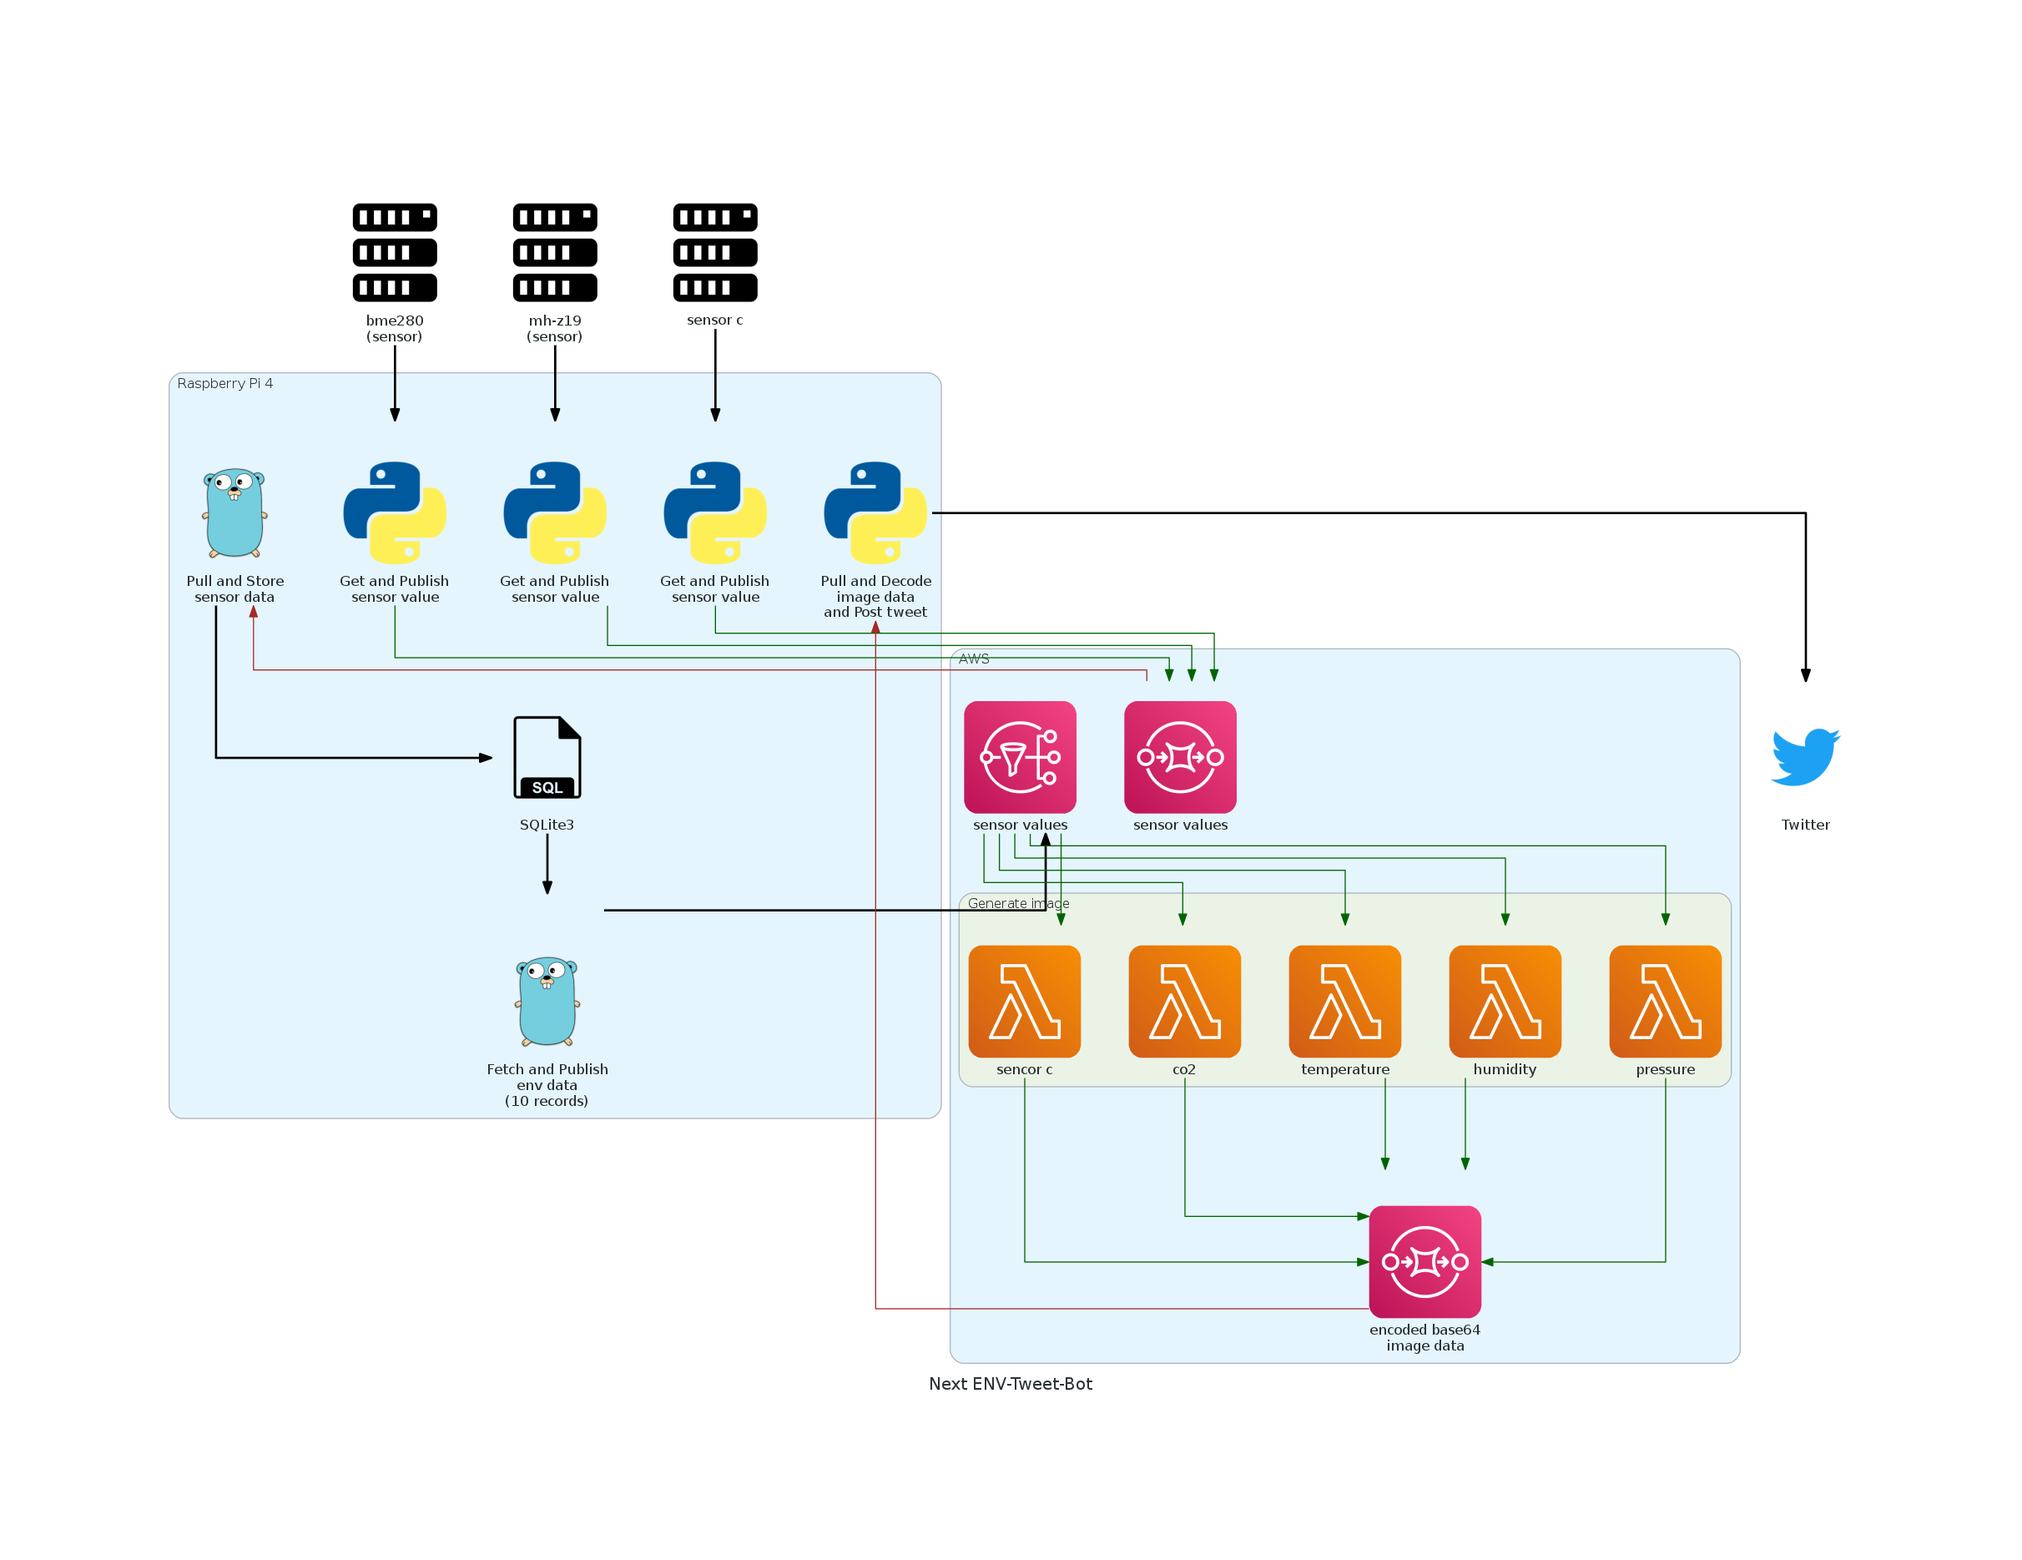
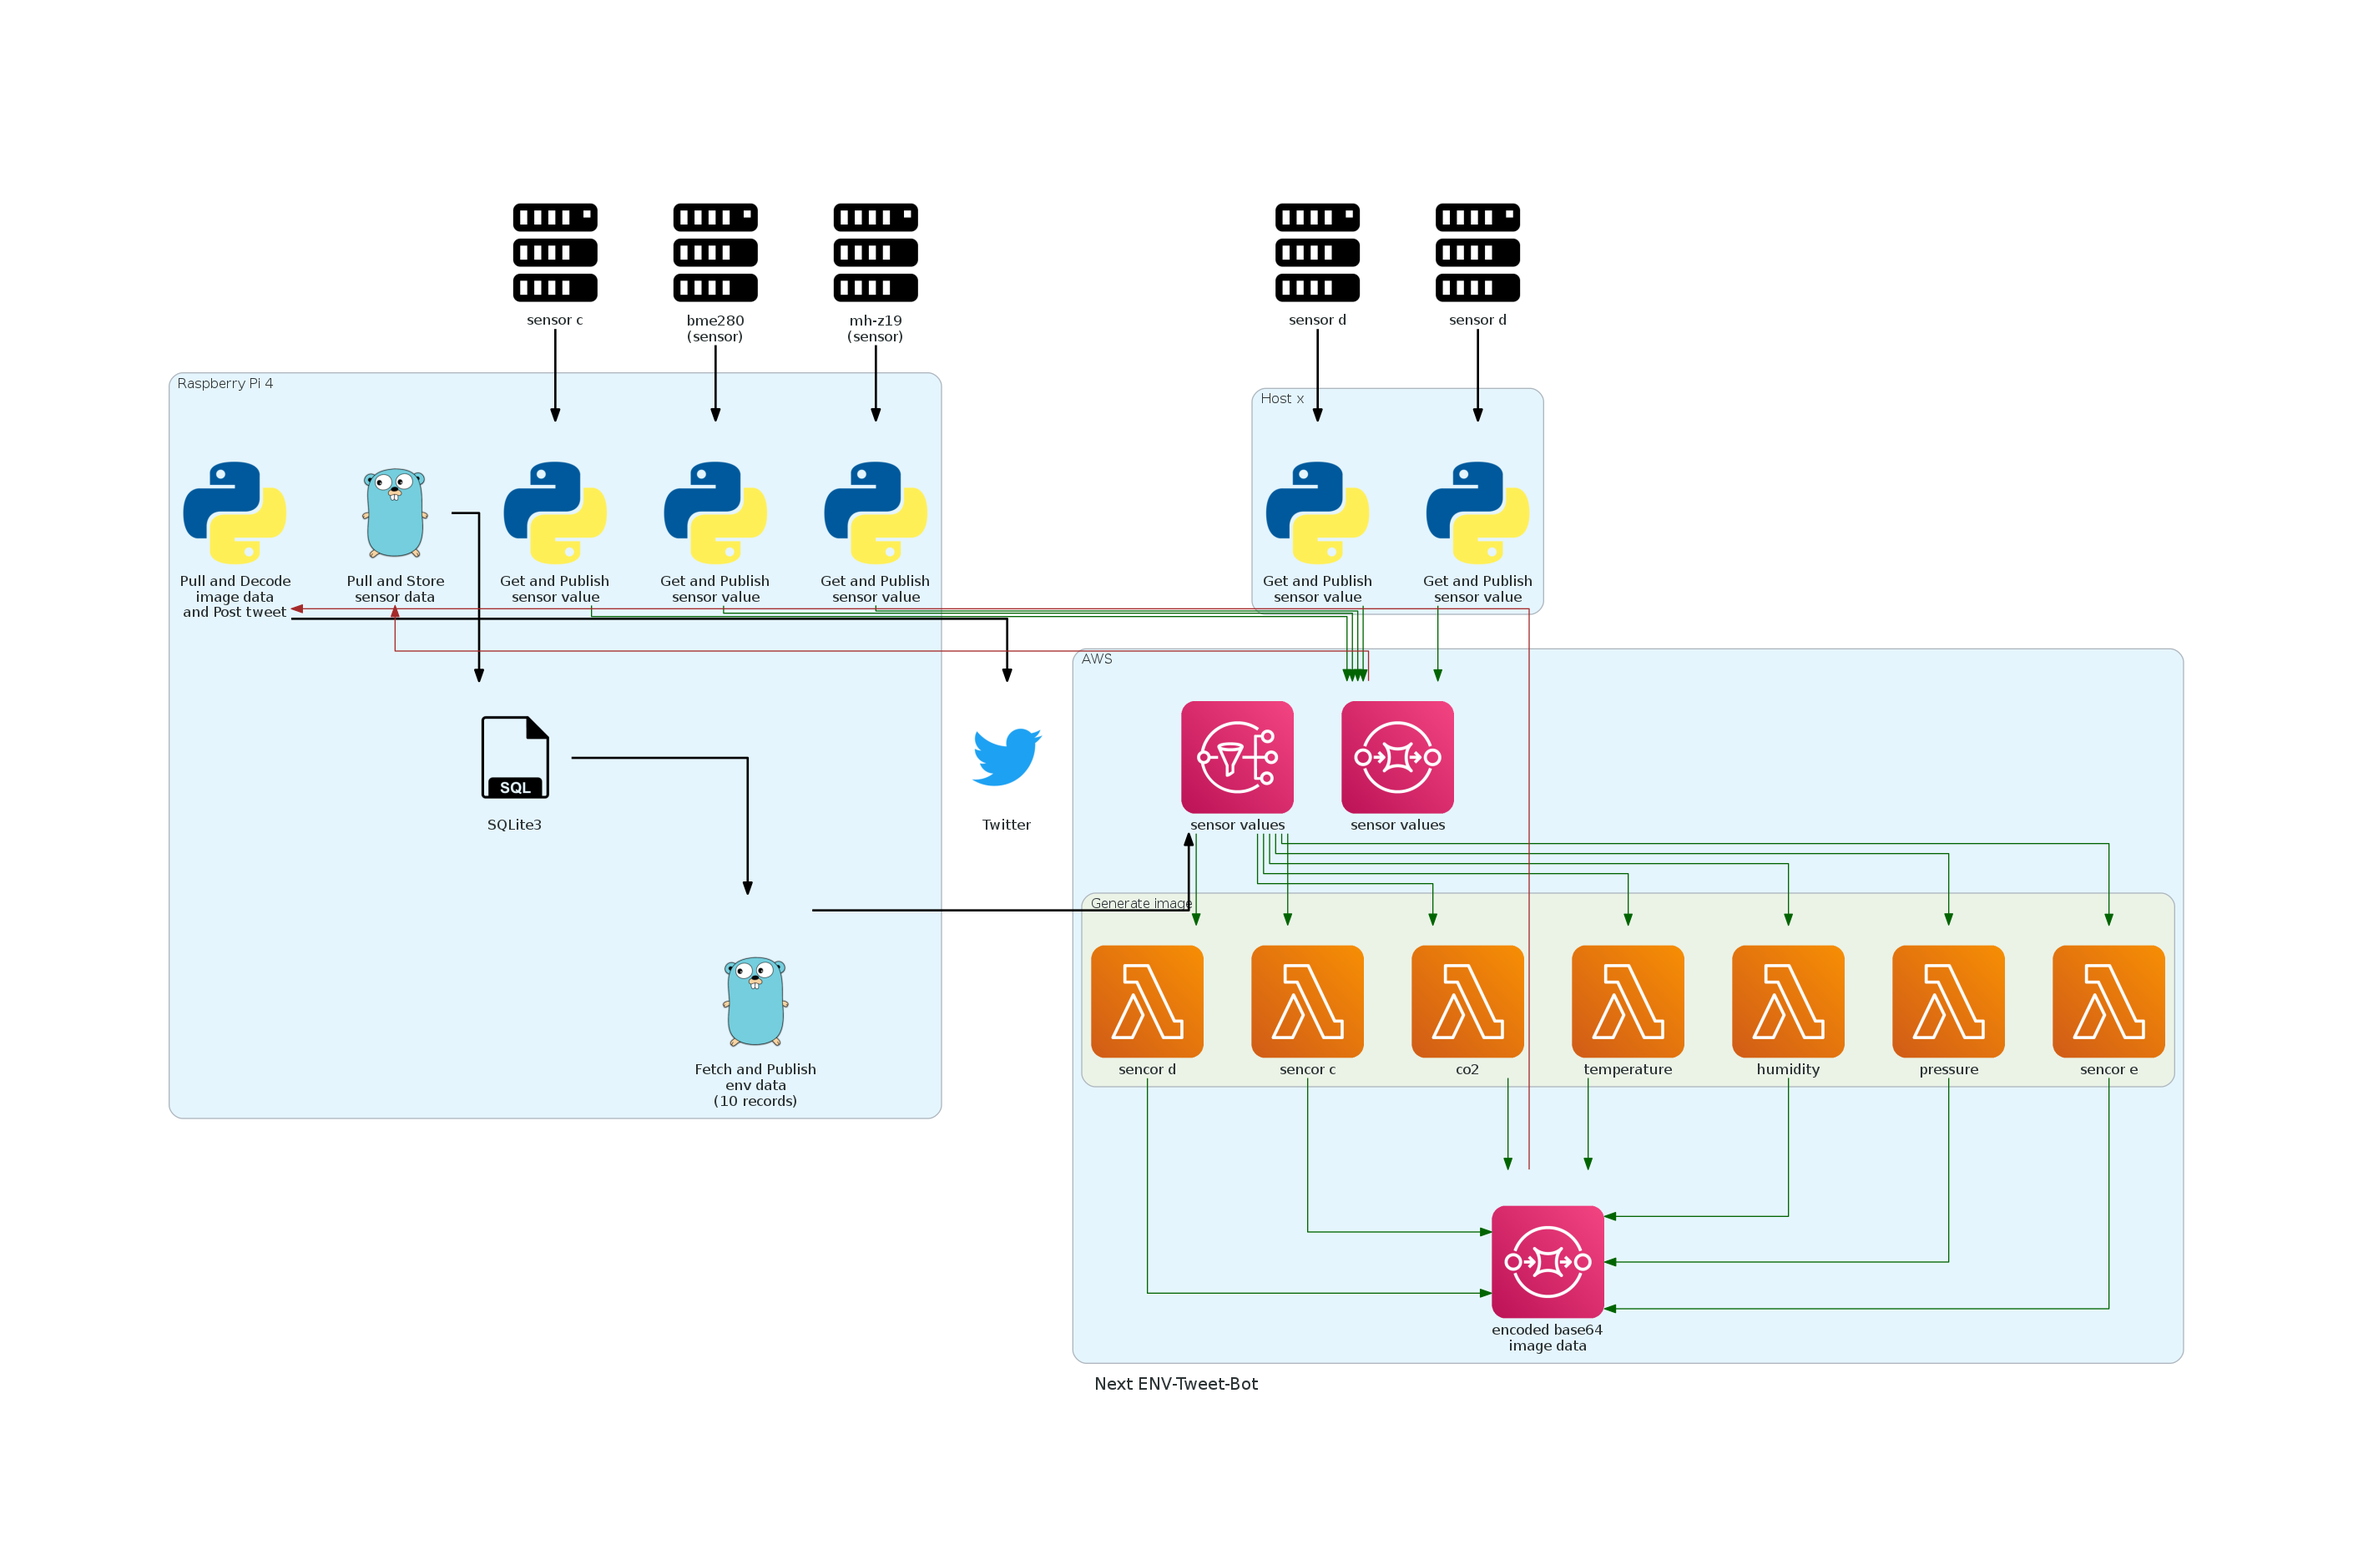
update

diff --git a/env-bot/doc/diagram_next.py b/env-bot/doc/diagram_next.py
@@ -25,6 +25,13 @@ with Diagram("Next ENV-Tweet-Bot", direction="TB", show=False, outformat="png"):
     prog2 = Go("Fetch and Publish\nenv data\n(10 records)")
     prog3 = Python("Pull and Decode\nimage data\nand Post tweet")
 
+  sensor_d = Server("sensor d")
+  sensor_e = Server("sensor d")
+
+  with Cluster("Host x"):
+    prog_d = Python("Get and Publish\nsensor value")
+    prog_e = Python("Get and Publish\nsensor value")
+
   with Cluster("AWS"):
     sqs0 = SQS("sensor values")
     sns = SNS("sensor values")
@@ -34,7 +41,9 @@ with Diagram("Next ENV-Tweet-Bot", direction="TB", show=False, outformat="png"):
                   Lambda("humidity"),
                   Lambda("temperature"),
                   Lambda("co2"),
-                  Lambda("sencor c")]
+                  Lambda("sencor c"),
+                  Lambda("sencor d"),
+                  Lambda("sencor e")]
 
     sqs1 = SQS("encoded base64\nimage data")
 
@@ -43,6 +52,10 @@ with Diagram("Next ENV-Tweet-Bot", direction="TB", show=False, outformat="png"):
   mh_z19 >> black_edge >> prog_a >> green_edge >> sqs0
   bme280 >> black_edge >> prog_b >> green_edge >> sqs0
   sensor_c >> black_edge >> prog_c >> green_edge >> sqs0
+
+  sensor_d >> black_edge >> prog_d >> green_edge >> sqs0
+  sensor_e >> black_edge >> prog_e >> green_edge >> sqs0
+
   sqs0 >> brown_edge >> prog1
   prog1 >> black_edge >> db >> black_edge >> prog2
   prog2 >> black_edge >> sns >> green_edge >> svc_group
